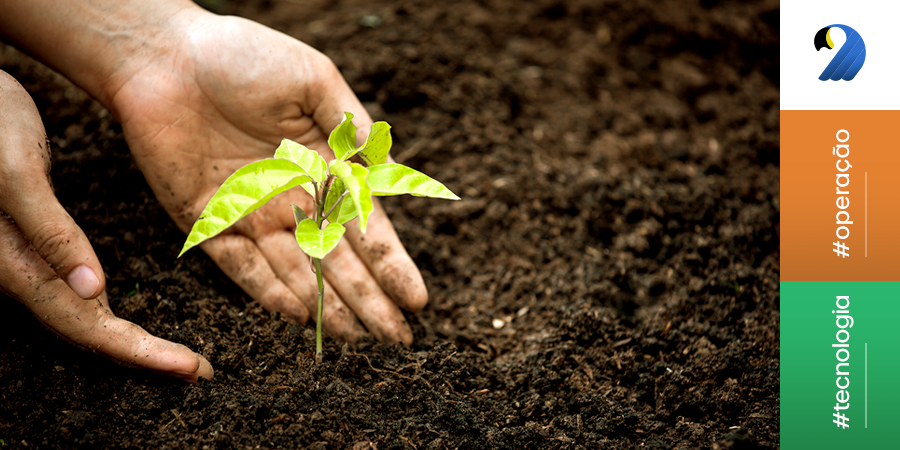
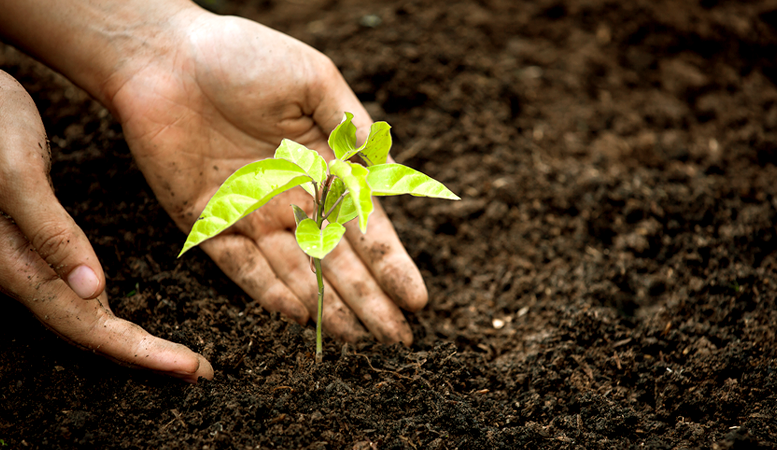
Correção de bugs

diff --git a/style.css b/style.css
@@ -47,6 +47,60 @@ body.dark-mode {
     --footer-bg: #0f140e;
 }
 
+body.dark-mode {
+    color-scheme: dark;
+}
+
+body.dark-mode header {
+    box-shadow: 0 2px 10px rgba(0, 0, 0, 0.35);
+}
+
+body.dark-mode nav {
+    background: #162015;
+}
+
+body.dark-mode .hero {
+    background: linear-gradient(rgba(0, 0, 0, 0.75), rgba(0, 0, 0, 0.75)), url('cadu.png') no-repeat center center/cover;
+}
+
+body.dark-mode .hero-conteudo h2,
+body.dark-mode .hero-conteudo p {
+    color: #f3f6f1;
+}
+
+body.dark-mode .banner img {
+    box-shadow: 0 5px 15px rgba(0, 0, 0, 0.35);
+}
+
+body.dark-mode .footer-container {
+    border-bottom: 1px solid rgba(255, 255, 255, 0.08);
+}
+
+body.dark-mode .footer-coluna h3 {
+    color: #f5f7f2;
+}
+
+body.dark-mode .footer-coluna ul li a,
+body.dark-mode .redes-sociais a,
+body.dark-mode .footer-direitos {
+    color: #cfe6cf;
+}
+
+body.dark-mode .footer-coluna ul li a:hover,
+body.dark-mode .footer-coluna ul li a:focus-visible {
+    color: #ffffff;
+}
+
+body.dark-mode .redes-sociais a {
+    background: rgba(255, 255, 255, 0.08);
+}
+
+body.dark-mode .topo {
+    background: #243322;
+    color: #f5f7f2;
+    box-shadow: 0 4px 12px rgba(0, 0, 0, 0.35);
+}
+
 /* ==========================================================================
    1. Reset & Base Styles
    ========================================================================== */
@@ -188,6 +242,37 @@ nav a:hover, nav a:focus-visible {
 
 body.dark-mode .btn-cta {
     color: #121610;
+}
+
+body.dark-mode .btn-dark-toggle {
+    background: rgba(255, 255, 255, 0.12);
+    color: #f5f7f2;
+}
+
+body.dark-mode .btn-dark-toggle:hover,
+body.dark-mode .btn-dark-toggle:focus-visible {
+    background: rgba(255, 255, 255, 0.2);
+}
+
+body.dark-mode .card {
+    box-shadow: 0 5px 15px rgba(0, 0, 0, 0.35);
+}
+
+body.dark-mode .box {
+    background: #1b2217;
+    color: #f3f6f1;
+    border: 1px solid #2e3b27;
+}
+
+body.dark-mode .galeria-item {
+    background: #1b2217;
+}
+
+body.dark-mode .footer-coluna h3,
+body.dark-mode .topo,
+body.dark-mode nav a,
+body.dark-mode .menu-toggle {
+    color: #f5f7f2;
 }
 
 .btn-cta:hover, .btn-cta:focus-visible {
@@ -556,7 +641,7 @@ body:not(.dark-mode) .box {
         justify-content: center;
     }
 
-
+}
 
 /* Responsividade do Quiz */
 @media (min-width: 600px) {

diff --git a/index.html b/index.html
@@ -17,11 +17,10 @@
         <nav>
             <a href="#sustentabilidade"> Sustentabilidade </a>
             <a href="#tecnologia-inovacao"> Tecnologia </a>
-            <a href="#automacao"> Automação </a>
-            <a href="#futuro"> Futuro </a> 
+            <a href="#automacao"> Automação </a> 
             <a href="#economia"> Economia </a>
             <a href="#clima"> Clima </a>
-            <a href="galeria"> Galeria </a>
+            <a href="#galeria"> Galeria </a>
             <button id="dark-mode-toggle" class="btn-dark-toggle" aria-label="Alternar modo escuro"> 🌓 Modo Escuro </button>
         </nav>
         <button class="menu-toggle" aria-label="Abrir menu">☰</button>
@@ -146,6 +145,8 @@
             </div>
         </div>
     </div>
+</section>
+
 <footer class="footer-moderno">
     <div class="footer-container">
         <div class="footer-coluna">
@@ -182,7 +183,7 @@
 
 <a href="#" class="topo" aria-label="Voltar ao topo">⬆</a>
 
-<script src="script.js"></script>
+<script src="main.js"></script>
 
 </body>
 </html>

diff --git a/main.js b/main.js
@@ -102,12 +102,4 @@ document.addEventListener("DOMContentLoaded", () => {
         });
     }
 
-    
-            loadQuestion();
-        });
-
-        // Inicia o Quiz
-        loadQuestion();
-    }
-
-}); // Fim do DOMContentLoaded
+});
